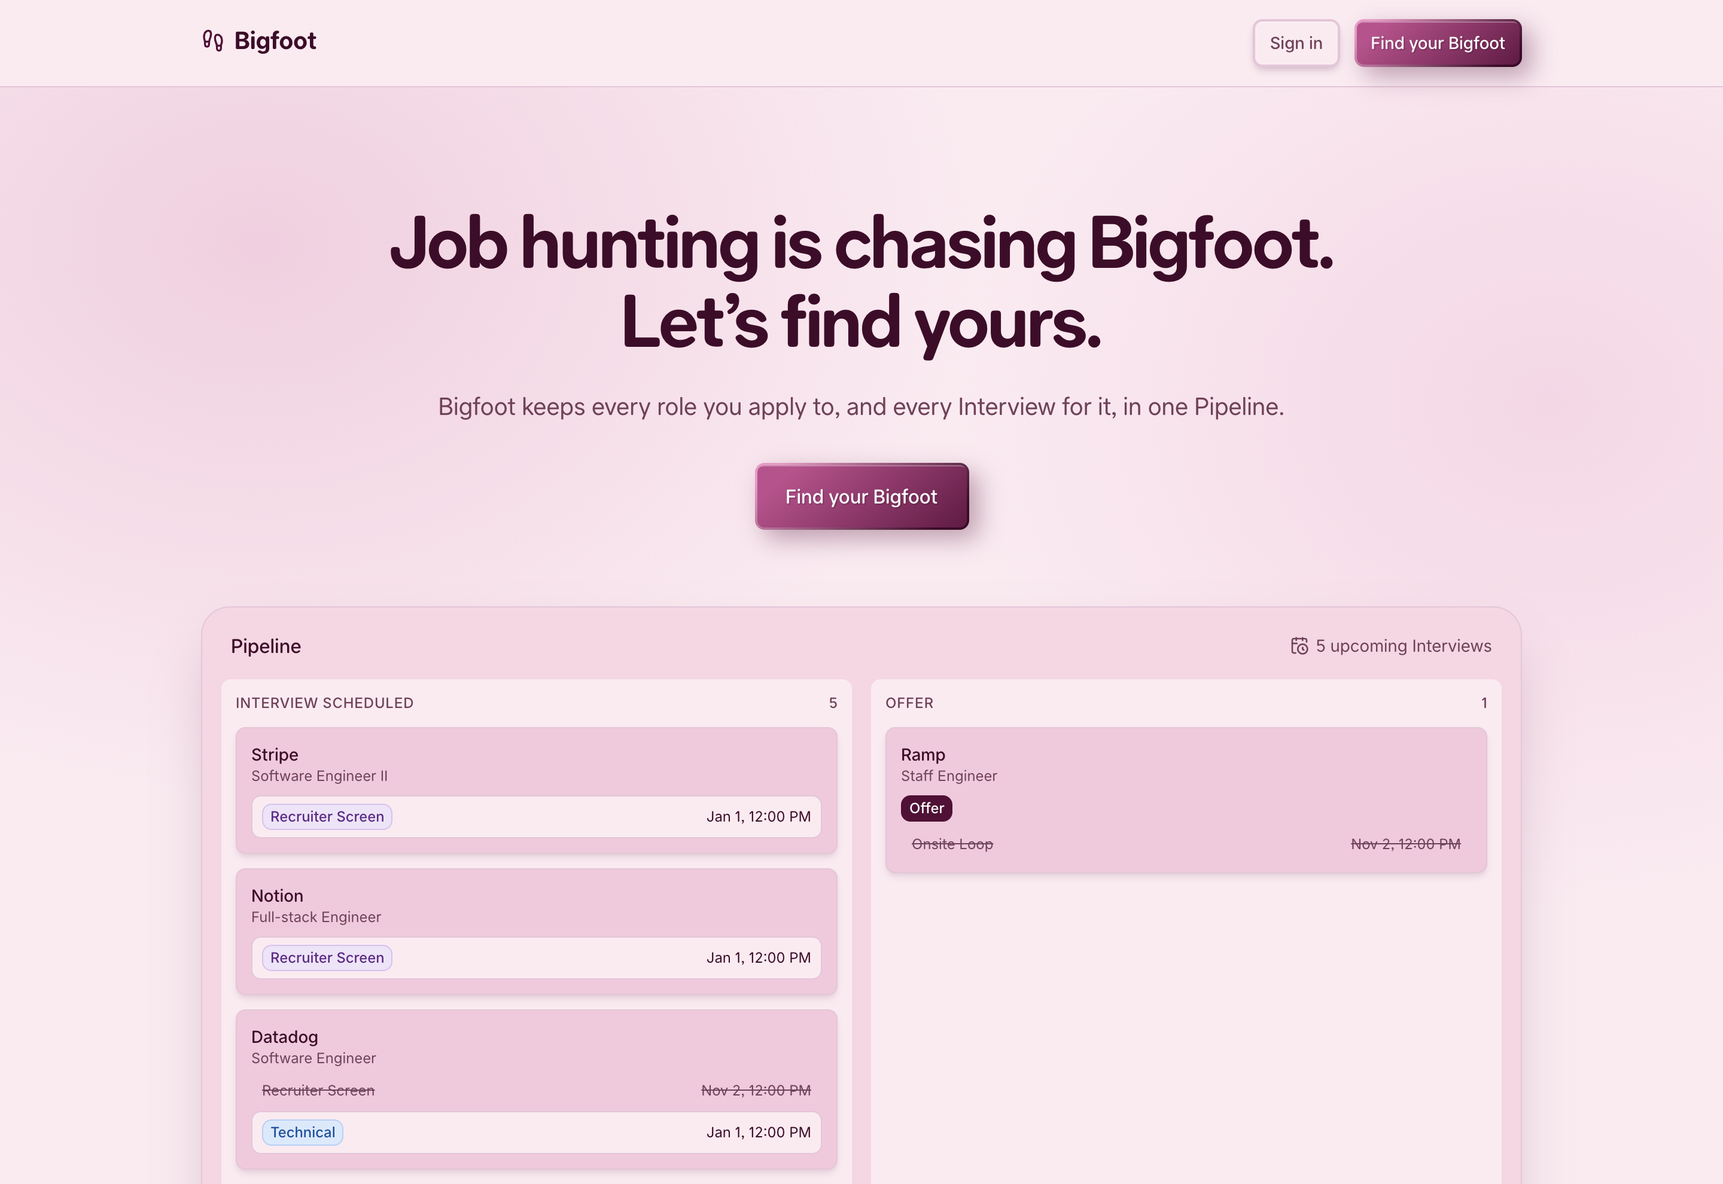
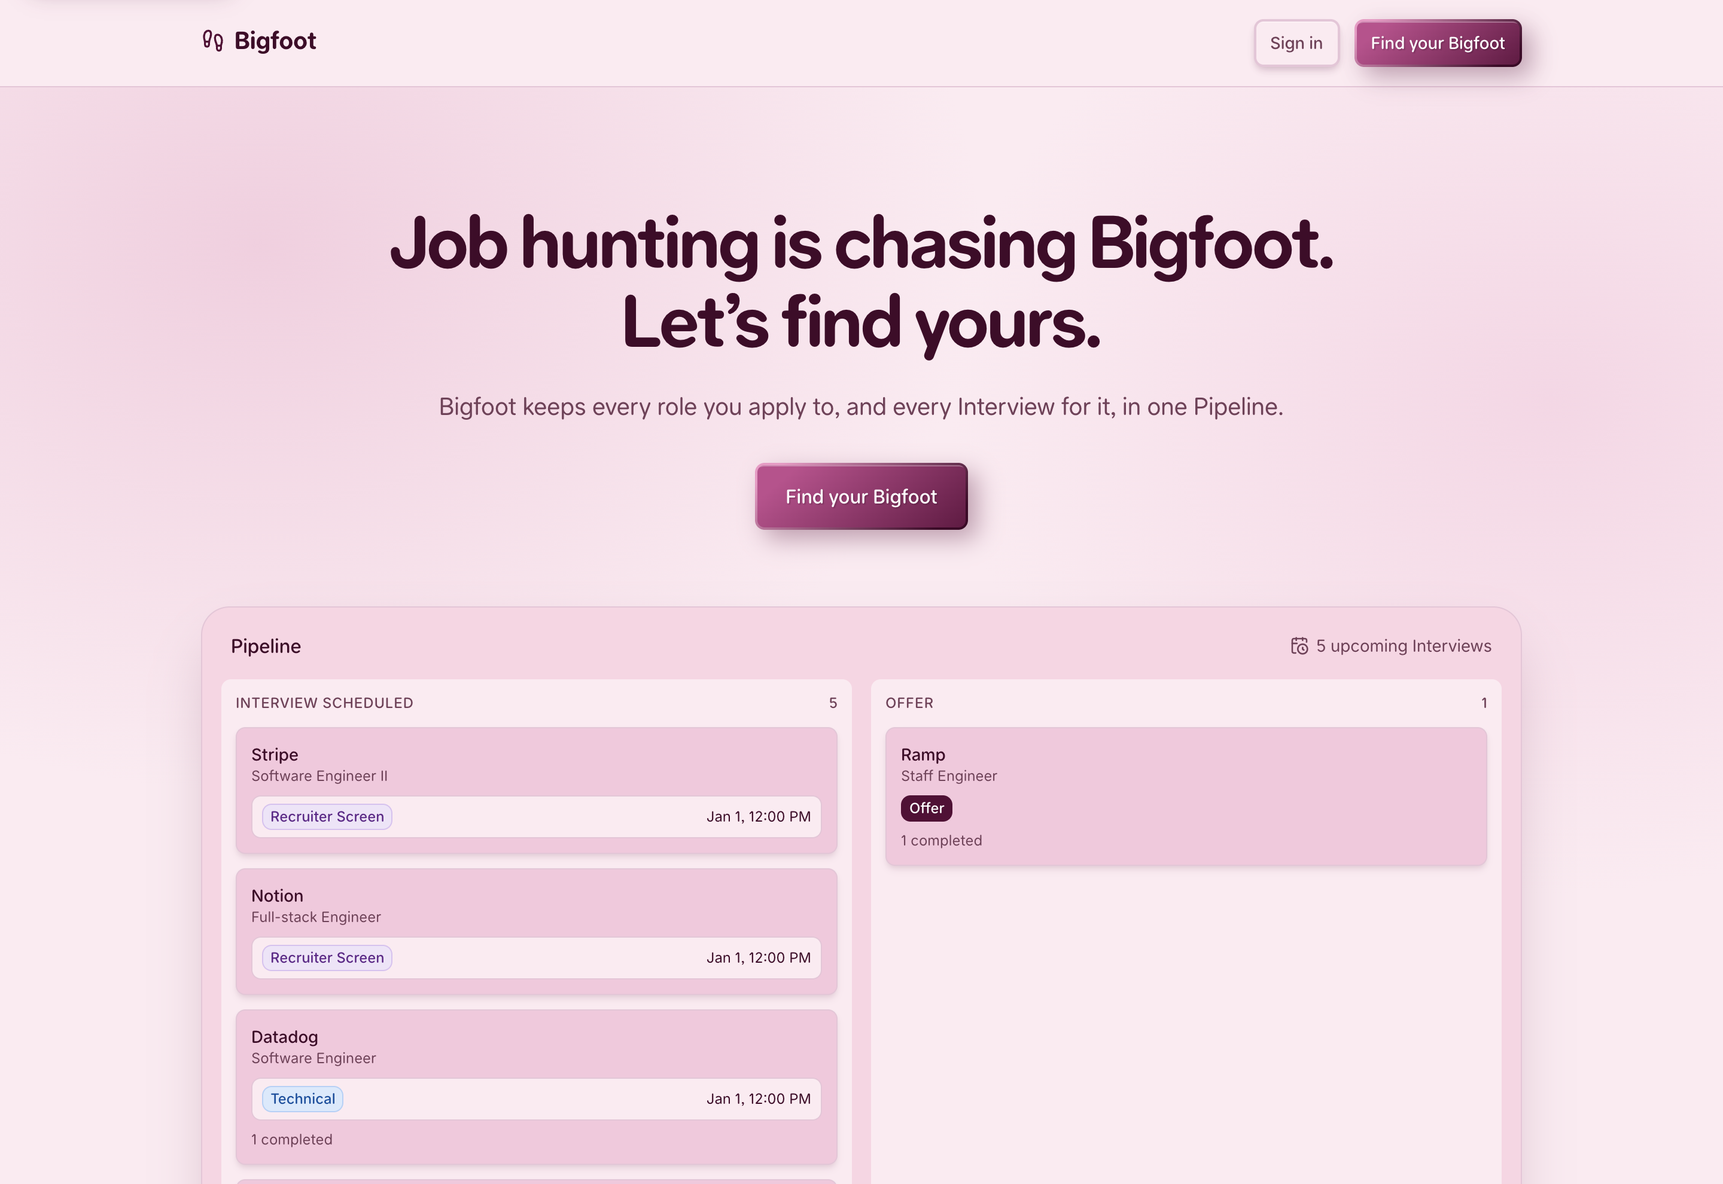
Show each Pipeline card's next Interview and a count, instead of every Interview (BIG-131)
A card now shows its company and role, its next Interview (kind and date,
plus "+N more upcoming") or "Waiting since", "N completed" with a notes
mark, and its Outcome once Done. The hide-completed and collapse buttons
and their state are gone. A long Interview kind wraps inside its badge so
the date stays on its row at narrow widths. GLOSSARY's Pipeline entry and
the README and landing screenshots are updated.

diff --git a/src/features/applications/pipeline-board.tsx b/src/features/applications/pipeline-board.tsx
@@ -1,7 +1,7 @@
 "use client";
 
-import { useId, useState, type ReactNode } from "react";
-import { CalendarClock, ChevronDown, ChevronUp, Eye, EyeOff, NotebookPen } from "lucide-react";
+import type { ReactNode } from "react";
+import { CalendarClock, NotebookPen } from "lucide-react";
 import { Badge } from "@/components/ui/badge";
 import { SampleBadge } from "@/features/applications/sample-badge";
 import { Skeleton } from "@/components/ui/skeleton";
@@ -11,11 +11,12 @@ import {
   getBoardColumns,
   INTERVIEW_OPTIONS,
   OUTCOME_OPTIONS,
+  upcomingInterviews,
   type Application,
   type Interview,
 } from "@/lib/applications";
 
-// Also draws the landing page's decorative board (src/components/landing/hero.tsx): after a
+// Also draws the landing page's decorative board (src/features/landing/hero.tsx): after a
 // layout change, check docs/screenshots/landing.png too.
 
 type Props = {
@@ -79,7 +80,7 @@ export function PipelineBoard({
               </div>
               <ul className={cardListClasses}>
                 {column.applications.map((job) => (
-                  <Card key={job.id} job={job} onOpen={onOpen} controls={!decorative} />
+                  <Card key={job.id} job={job} onOpen={onOpen} />
                 ))}
               </ul>
             </section>
@@ -140,31 +141,17 @@ const columnHeaderClasses = "mb-3 flex items-center justify-between";
 const cardListClasses = "m-0 flex list-none flex-col gap-3 p-0";
 const cardClasses = "relative rounded-control border border-line bg-card-strong p-3 shadow-xs";
 
-// A ghost icon button (modal close button style) at 24px, the WCAG 2.2 minimum target size.
-// `relative z-10` lifts it above the card's stretched open button, so a click stays on it.
-const cardControlClasses =
-  "relative z-10 inline-grid size-6 cursor-pointer place-items-center rounded-control text-body transition-colors hover:bg-card hover:text-heading focus-visible:outline-2 focus-visible:outline-offset-2 focus-visible:outline-brand";
-
 /**
- * One Application on the board. With `controls`, the job seeker can hide its completed
- * Interviews and collapse it to its header; both choices last until the page reloads.
+ * One Application on the board, answering "what's next here?": its next Interview (or how long
+ * it has been waiting), how many Interviews are completed, and its Outcome once Done. Every
+ * Interview, with its Interview notes, is in the side panel.
  */
-function Card({
-  job,
-  onOpen,
-  controls,
-}: {
-  job: Application;
-  onOpen?: (app: Application) => void;
-  controls: boolean;
-}) {
-  const [collapsed, setCollapsed] = useState(false);
-  const [hideCompleted, setHideCompleted] = useState(false);
-  const bodyId = useId();
-  const hasCompleted = job.interviews.some((interview) => interview.completed);
-  const interviews = hideCompleted ? job.interviews.filter((interview) => !interview.completed) : job.interviews;
-  // What collapsing hides; a card without any (a brand-new Waiting one) has no collapse button.
-  const collapsible = Boolean(job.outcome) || job.interviews.length > 0;
+function Card({ job, onOpen }: { job: Application; onOpen?: (app: Application) => void }) {
+  const upcoming = upcomingInterviews(job);
+  const next = upcoming[0];
+  const completed = job.interviews.filter((interview) => interview.completed);
+  const withNotes = completed.filter((interview) => interview.notes).length;
+  const hasBody = Boolean(job.outcome || next || job.is_waiting || completed.length > 0);
 
   return (
     <li
@@ -172,117 +159,69 @@ function Card({
         onOpen ? "cursor-pointer transition-all duration-200 hover:border-line-medium hover:shadow-md" : ""
       }`}
     >
-      <div className="flex items-start justify-between gap-2">
-        <p className="m-0 min-w-0 text-sm font-medium leading-5 text-heading">
-          {onOpen ? (
-            // Stretched button: its ::after covers the card, so the whole card opens the Application.
-            <button
-              type="button"
-              onClick={() => onOpen(job)}
-              className="cursor-pointer text-left after:absolute after:inset-0 after:rounded-control focus-visible:outline-none focus-visible:after:outline-2 focus-visible:after:outline-offset-2 focus-visible:after:outline-brand"
-            >
-              <span className="sr-only">Open </span>
-              {job.company}
-              <span className="sr-only">, {job.title}</span>
-            </button>
-          ) : (
-            job.company
-          )}
-        </p>
-        {controls && (
-          <div className="-mt-0.5 -mr-1 flex shrink-0 items-center gap-0.5">
-            {hasCompleted && (
-              // Toggle button: its name stays fixed and aria-pressed carries the state.
-              <button
-                type="button"
-                aria-pressed={hideCompleted}
-                aria-label={`Hide completed Interviews, ${job.company}`}
-                title={hideCompleted ? "Show completed Interviews" : "Hide completed Interviews"}
-                onClick={() => setHideCompleted((hide) => !hide)}
-                className={cardControlClasses}
-              >
-                {hideCompleted ? <Eye className="size-4" aria-hidden /> : <EyeOff className="size-4" aria-hidden />}
-              </button>
-            )}
-            {collapsible && (
-              <button
-                type="button"
-                aria-expanded={!collapsed}
-                aria-controls={bodyId}
-                aria-label={`${collapsed ? "Expand" : "Collapse"} card, ${job.company}`}
-                title={collapsed ? "Expand card" : "Collapse card"}
-                onClick={() => setCollapsed((c) => !c)}
-                className={cardControlClasses}
-              >
-                {collapsed ? <ChevronDown className="size-4" aria-hidden /> : <ChevronUp className="size-4" aria-hidden />}
-              </button>
-            )}
-          </div>
+      <p className="m-0 min-w-0 text-sm font-medium leading-5 text-heading">
+        {onOpen ? (
+          // Stretched button: its ::after covers the card, so the whole card opens the Application.
+          <button
+            type="button"
+            onClick={() => onOpen(job)}
+            className="cursor-pointer text-left after:absolute after:inset-0 after:rounded-control focus-visible:outline-none focus-visible:after:outline-2 focus-visible:after:outline-offset-2 focus-visible:after:outline-brand"
+          >
+            <span className="sr-only">Open </span>
+            {job.company}
+            <span className="sr-only">, {job.title}</span>
+          </button>
+        ) : (
+          job.company
         )}
-      </div>
+      </p>
       <div className="flex items-start justify-between gap-2">
         <p className="m-0 min-w-0 text-xs leading-4 text-body">{job.title}</p>
         {job.is_sample && <SampleBadge />}
       </div>
-      <div className={`flex flex-col items-start gap-2 text-xs text-body ${(collapsible && !collapsed) || job.is_waiting ? "mt-2" : ""}`}>
-        {collapsible && (
-          // Collapsing hides only this part; the header and "Waiting since" stay.
-          <div id={bodyId} hidden={collapsed} className="flex w-full flex-col items-start gap-2">
-            {job.outcome && (
-              <Badge tone={OUTCOME_TONE[job.outcome]}>{OUTCOME_OPTIONS[job.outcome].label}</Badge>
-            )}
-            {interviews.length > 0 && (
-              // Every Interview in date order (undated, then past, then upcoming), one row each.
-              <ul aria-label="Interviews" className="m-0 flex w-full list-none flex-col gap-1.5 p-0">
-                {interviews.map((interview) => (
-                  <InterviewItem key={interview.id} interview={interview} />
-                ))}
-              </ul>
-            )}
-          </div>
-        )}
-        {job.is_waiting && <ApplicationWhen app={job} />}
-      </div>
+      {hasBody && (
+        <div className="mt-2 flex flex-col items-start gap-2 text-xs text-body">
+          {job.outcome && <Badge tone={OUTCOME_TONE[job.outcome]}>{OUTCOME_OPTIONS[job.outcome].label}</Badge>}
+          {next && <NextInterview interview={next} more={upcoming.length - 1} />}
+          {job.is_waiting && <ApplicationWhen app={job} />}
+          {completed.length > 0 && <CompletedCount count={completed.length} withNotes={withNotes} />}
+        </div>
+      )}
     </li>
   );
 }
 
 /**
- * One Interview as a row: its kind on the left, its date on the right. An upcoming one is a
- * coloured badge in a box; a completed one (past or undated) is plain, struck-through grey text.
- * One with Interview notes carries a small mark; the notes themselves are read in the side panel.
+ * The soonest upcoming Interview: its kind badge on the left and its date on the right, then how
+ * many more are upcoming. A long kind wraps inside its badge, so the date keeps its place.
  */
-function InterviewItem({ interview }: { interview: Interview }) {
-  const kind = INTERVIEW_OPTIONS[interview.kind];
-  if (interview.completed) {
-    return (
-      <li className="flex flex-wrap items-center gap-x-3 gap-y-0.5 border border-transparent px-2 py-0.5 text-body line-through">
-        <span>{kind.label}</span>
-        {interview.notes && <NotesMark />}
-        <span className="ml-auto">
+function NextInterview({ interview, more }: { interview: Interview; more: number }) {
+  return (
+    <div className="flex w-full flex-col gap-1">
+      <p className="m-0 flex w-full items-center gap-3 rounded-control border border-line bg-surface px-2 py-1.5 text-heading">
+        <span className="sr-only">Next Interview: </span>
+        <span className="min-w-0">
+          <Badge tone={INTERVIEW_TONE[interview.kind]}>{INTERVIEW_OPTIONS[interview.kind].label}</Badge>
+        </span>
+        <span className="ml-auto shrink-0">
           <InterviewWhen at={interview.at} />
         </span>
-        <span className="sr-only">(past)</span>
-      </li>
-    );
-  }
-  return (
-    <li className="flex flex-wrap items-center gap-x-3 gap-y-1 rounded-control border border-line bg-surface px-2 py-1.5 text-heading">
-      <Badge tone={INTERVIEW_TONE[interview.kind]}>{kind.label}</Badge>
-      {interview.notes && <NotesMark />}
-      <span className="ml-auto">
-        <InterviewWhen at={interview.at} />
-      </span>
-    </li>
+      </p>
+      {more > 0 && <p className="m-0">+{more} more upcoming</p>}
+    </div>
   );
 }
 
-/** Says an Interview has Interview notes, without showing them. */
-function NotesMark() {
+/** "3 completed", with a mark when any of them have Interview notes (read in the side panel). */
+function CompletedCount({ count, withNotes }: { count: number; withNotes: number }) {
   return (
-    <span className="inline-flex items-center text-body">
-      <NotebookPen className="size-3.5" aria-hidden />
-      <span className="sr-only">(has notes)</span>
-    </span>
+    <p className="m-0 inline-flex items-center gap-1.5">
+      <span aria-hidden>{count} completed</span>
+      {withNotes > 0 && <NotebookPen className="size-3.5" aria-hidden />}
+      <span className="sr-only">
+        {count} completed {count === 1 ? "Interview" : "Interviews"}
+        {withNotes > 0 && `, ${withNotes} with notes`}
+      </span>
+    </p>
   );
 }

diff --git a/src/features/applications/pipeline-board.test.tsx b/src/features/applications/pipeline-board.test.tsx
@@ -27,6 +27,12 @@ function columns() {
   ]);
 }
 
+/** Matches a card's next-Interview row by its kind. */
+function nextInterview(kind: string) {
+  return (_: string, element: Element | null) =>
+    element?.tagName === "P" && (element.textContent ?? "").startsWith(`Next Interview: ${kind}`);
+}
+
 describe("PipelineBoard", () => {
   it("groups Applications into Waiting, Interview scheduled and Offer, leaving other Done ones off", () => {
     render(<PipelineBoard title="Pipeline" subtitle="4 open" applications={all} />);
@@ -48,24 +54,48 @@ describe("PipelineBoard", () => {
     expect(screen.getByText(/Open applications show up here/)).toBeInTheDocument();
   });
 
-  it("lists a card's Interviews, marking completed ones as past", () => {
+  it("shows a card's next Interview and how many are completed, not every Interview", () => {
     render(<PipelineBoard title="Pipeline" subtitle="" applications={[scheduled]} />);
-    const items = within(screen.getByRole("list", { name: "Interviews" })).getAllByRole("listitem");
-    expect(items.map((li) => li.textContent)).toEqual([
-      expect.stringMatching(/^Recruiter Screen.*\(past\)$/),
-      expect.not.stringContaining("(past)"),
-    ]);
-    expect(items[1]).toHaveTextContent("Technical");
+    const card = screen.getByRole("listitem");
+    expect(within(card).getByText(nextInterview("Technical"))).toBeInTheDocument();
+    expect(within(card).queryByText("Recruiter Screen")).not.toBeInTheDocument();
+    expect(within(card).getByText("1 completed Interview")).toBeInTheDocument();
+    expect(within(card).queryByText(/more upcoming/)).not.toBeInTheDocument();
   });
 
-  it("marks an Interview that has Interview notes, without showing them", () => {
-    const noted = { ...scheduled.interviews[0], notes: "Asked about caching." };
-    const app = { ...scheduled, interviews: [noted, scheduled.interviews[1]] };
+  it("shows the soonest of two upcoming Interviews on the same day, plus how many more", () => {
+    const app = application("Birch", {
+      is_waiting: false,
+      interviews: [
+        interview("am", { at: "2027-01-05T15:00:00Z", completed: false, kind: "hiring_manager" }),
+        interview("pm", { at: "2027-01-05T19:00:00Z", completed: false, kind: "technical" }),
+      ],
+    });
     render(<PipelineBoard title="Pipeline" subtitle="" applications={[app]} />);
-    const items = within(screen.getByRole("list", { name: "Interviews" })).getAllByRole("listitem");
-    expect(items[0]).toHaveTextContent("(has notes)");
-    expect(items[1]).not.toHaveTextContent("(has notes)");
+    expect(screen.getByText(nextInterview("Hiring Manager"))).toBeInTheDocument();
+    expect(screen.queryByText("Technical")).not.toBeInTheDocument();
+    expect(screen.getByText("+1 more upcoming")).toBeInTheDocument();
+    expect(screen.queryByText(/completed/)).not.toBeInTheDocument();
+  });
+
+  it("says how many completed Interviews have Interview notes, without showing them", () => {
+    const app = application("Birch", {
+      is_waiting: true,
+      interviews: [
+        interview("a", { at: "2026-10-01T15:00:00Z", completed: true, notes: "Asked about caching." }),
+        interview("b", { at: "2026-10-08T15:00:00Z", completed: true, notes: "Pairing exercise." }),
+        interview("c", { at: "2026-10-15T15:00:00Z", completed: true }),
+      ],
+    });
+    render(<PipelineBoard title="Pipeline" subtitle="" applications={[app]} />);
+    expect(screen.getByText("3 completed Interviews, 2 with notes")).toBeInTheDocument();
     expect(screen.queryByText(/Asked about caching/)).not.toBeInTheDocument();
+    expect(screen.queryByText("Next Interview:")).not.toBeInTheDocument();
+  });
+
+  it("shows a Done card's Outcome", () => {
+    render(<PipelineBoard title="Pipeline" subtitle="" applications={[offer]} />);
+    expect(within(screen.getByRole("listitem")).getByText("Offer")).toBeInTheDocument();
   });
 
   it("opens an Application from its card", async () => {
@@ -75,54 +105,13 @@ describe("PipelineBoard", () => {
     expect(onOpen).toHaveBeenCalledWith(scheduled);
   });
 
-  it("hides a card's completed Interviews and shows them again, leaving upcoming ones", async () => {
-    render(<PipelineBoard title="Pipeline" subtitle="" applications={[scheduled]} />);
-    const toggle = screen.getByRole("button", { name: "Hide completed Interviews, Birch" });
-    expect(toggle).toHaveAttribute("aria-pressed", "false");
-
-    await userEvent.click(toggle);
-    expect(toggle).toHaveAttribute("aria-pressed", "true");
-    const items = within(screen.getByRole("list", { name: "Interviews" })).getAllByRole("listitem");
-    expect(items.map((li) => li.textContent)).toEqual([expect.stringContaining("Technical")]);
-
-    await userEvent.click(toggle);
-    expect(within(screen.getByRole("list", { name: "Interviews" })).getAllByRole("listitem")).toHaveLength(2);
-  });
-
-  it("offers only the buttons that would change a card", () => {
-    const upcomingOnly = { ...scheduled, id: "elm", company: "Elm", interviews: [scheduled.interviews[1]] };
-    render(<PipelineBoard title="Pipeline" subtitle="" applications={[waiting, upcomingOnly]} />);
-    expect(screen.queryByRole("button", { name: /Hide completed/ })).not.toBeInTheDocument();
-    expect(screen.getByRole("button", { name: "Collapse card, Elm" })).toBeInTheDocument();
-    // A brand-new Waiting card has nothing to collapse.
-    expect(screen.queryByRole("button", { name: /card, Acme/ })).not.toBeInTheDocument();
-  });
-
-  it("collapses a card to its header and expands it with the hide choice kept", async () => {
-    render(<PipelineBoard title="Pipeline" subtitle="" applications={[scheduled, offer]} />);
-    await userEvent.click(screen.getByRole("button", { name: "Hide completed Interviews, Birch" }));
-    const collapse = screen.getByRole("button", { name: "Collapse card, Birch" });
-    expect(collapse).toHaveAttribute("aria-expanded", "true");
-
-    await userEvent.click(collapse);
-    expect(collapse).toHaveAttribute("aria-expanded", "false");
-    expect(collapse).toHaveAccessibleName("Expand card, Birch");
-    expect(screen.queryByRole("list", { name: "Interviews" })).not.toBeInTheDocument();
-    expect(screen.getByText("Birch")).toBeVisible();
-    // Only Birch collapsed.
-    expect(screen.getByRole("button", { name: "Collapse card, Cedar" })).toHaveAttribute("aria-expanded", "true");
-
-    await userEvent.click(collapse);
-    const items = within(screen.getByRole("list", { name: "Interviews" })).getAllByRole("listitem");
-    expect(items).toHaveLength(1);
-  });
-
-  it("does not open the Application from a card's controls", async () => {
-    const onOpen = vi.fn();
-    render(<PipelineBoard title="Pipeline" subtitle="" applications={[scheduled]} onOpen={onOpen} />);
-    await userEvent.click(screen.getByRole("button", { name: "Hide completed Interviews, Birch" }));
-    await userEvent.click(screen.getByRole("button", { name: "Collapse card, Birch" }));
-    expect(onOpen).not.toHaveBeenCalled();
+  it("has no controls on a card besides opening it", () => {
+    render(<PipelineBoard title="Pipeline" subtitle="" applications={all} onOpen={vi.fn()} />);
+    expect(screen.getAllByRole("button").map((button) => button.textContent)).toEqual([
+      expect.stringMatching(/^Open Acme/),
+      expect.stringMatching(/^Open Birch/),
+      expect.stringMatching(/^Open Cedar/),
+    ]);
   });
 
   it("is a single labelled picture when decorative", () => {

diff --git a/GLOSSARY.md b/GLOSSARY.md
@@ -35,7 +35,7 @@ How a Done Application ended: Offer, Rejected, Position Filled, Withdrawn, No Op
 _Avoid_: closed stage, result, archived
 
 **Pipeline**:
-All of a job seeker's Applications. The board shows the In Progress ones, grouped by what they are waiting on, plus Offers. Its columns are Waiting, Interview scheduled and Offer, and a Done column for the other Done Applications when "Show done" is on; empty ones are left out. Each card lists all of its Application's Interviews, completed ones muted, and marks the ones that have Interview notes without showing the notes. Buttons on a card hide its completed Interviews and collapse it to its company, role and "Waiting since", each shown only when the card has something for it to hide; cards start expanded with every Interview shown, and go back to that on reload. Opening a card shows its whole Application in a side panel beside the board: details, Status, Outcome and every Interview with its Interview notes, all editable there. The panel hides the salary behind a Reveal button each time it opens, against someone looking at the screen; the data download still includes it. "Add application" opens the same panel, empty.
+All of a job seeker's Applications. The board shows the In Progress ones, grouped by what they are waiting on, plus Offers. Its columns are Waiting, Interview scheduled and Offer, and a Done column for the other Done Applications when "Show done" is on; empty ones are left out. Each card answers "what's next here?": its company and role, its next Interview (kind and date, with "+1 more upcoming" when there are others) or "Waiting since" when there is none, how many of its Interviews are completed ("3 completed", with a mark when any have Interview notes, which aren't shown), and its Outcome once Done. It never lists every Interview, so cards in a column stay close to the same height. Opening a card shows its whole Application in a side panel beside the board: details, Status, Outcome and every Interview with its Interview notes, all editable there. The panel hides the salary behind a Reveal button each time it opens, against someone looking at the screen; the data download still includes it. "Add application" opens the same panel, empty.
 _Avoid_: board, funnel, tracker
 
 **Interview**:
